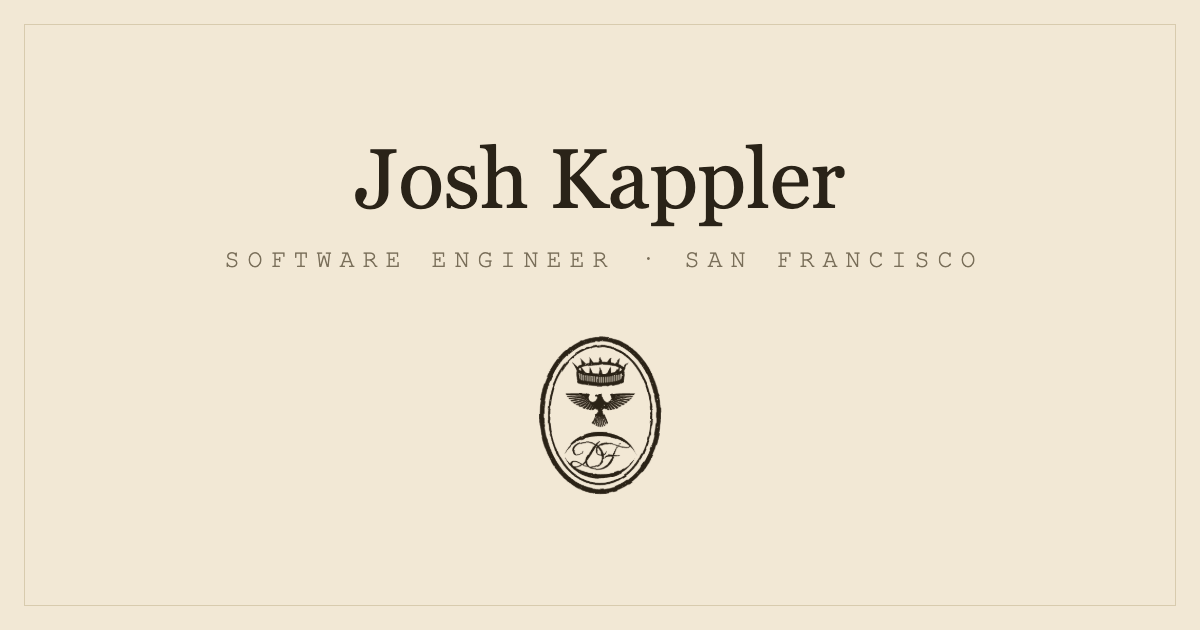
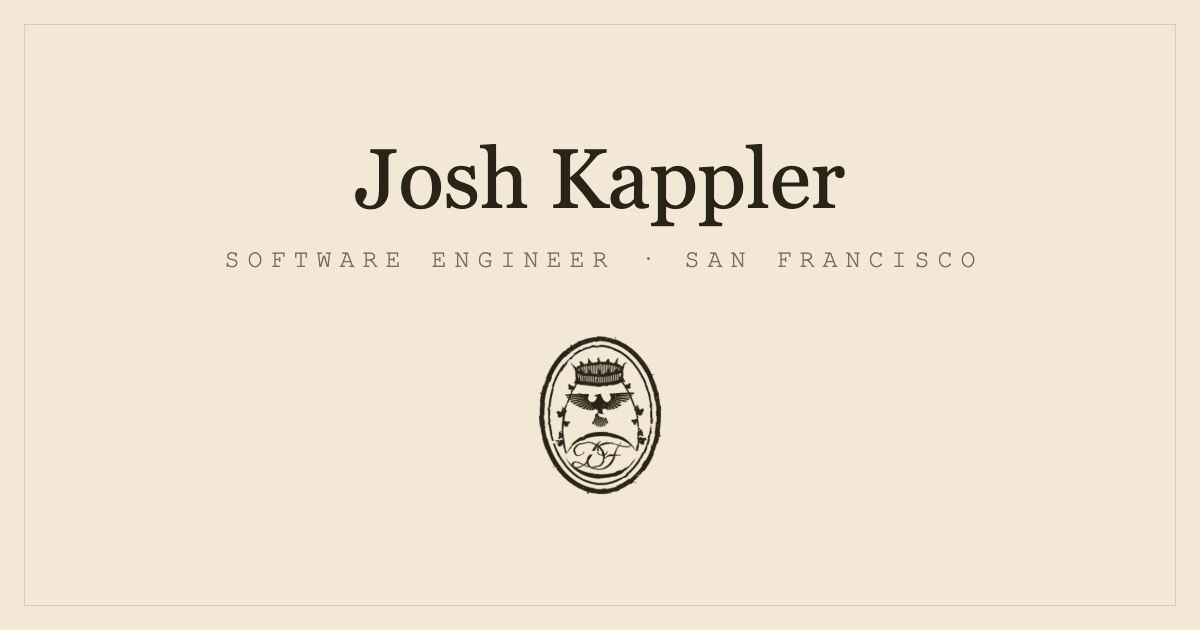
site: grapevines up the flanks, solid coronet, wax-strike wear

Changed region(s): [[0.4317, 0.5429, 0.555, 0.7841]]

diff --git a/src/components/crest-mark.tsx b/src/components/crest-mark.tsx
@@ -1,9 +1,12 @@
 /* The de Falco family seal, stylized from a photo of the wax stamp (over a
    century old): the marquess coronet above a falcon displayed, over the
    cipher's eye holding an interlaced DF, inside the double ring of the oval
-   face. Letters are Great Vibes outlines (OFL); falcon from openclipart
-   319705 (public domain). The eye's inner curve also clips the monogram, so
-   the swash tails end tucked beneath the lids. */
+   face. Grapevines climb each flank and slip behind the coronet. Letters are
+   Great Vibes outlines (OFL); falcon from openclipart 319705 (public domain).
+   The eye's inner curve also clips the monogram, so the swash tails end
+   tucked beneath the lids. The whole face sits a degree and a half off true,
+   with squeeze-out flecks past the rim and patches where the strike missed,
+   the way a hand-pressed stamp lands. */
 export function CrestMark({ className }: { className?: string }) {
   return (
     <svg
@@ -19,7 +22,7 @@ export function CrestMark({ className }: { className?: string }) {
         <clipPath id="crest-eye">
           <path d="M 22 96 C 31 76.5 69 76.5 78 96 C 69 115.5 31 115.5 22 96 Z" />
         </clipPath>
-        <filter id="crest-age" x="-8%" y="-8%" width="116%" height="116%">
+        <filter id="crest-age" x="-10%" y="-10%" width="120%" height="120%">
           <feTurbulence
             type="turbulence"
             baseFrequency="0.08"
@@ -46,18 +49,208 @@ export function CrestMark({ className }: { className?: string }) {
             values="0 0 0 0 0  0 0 0 0 0  0 0 0 0 0  0 0 0 25 -19.2"
             result="holes"
           />
-          <feComposite in="wob" in2="holes" operator="out" />
+          <feTurbulence
+            type="fractalNoise"
+            baseFrequency="0.05 0.11"
+            numOctaves="3"
+            seed="11"
+            result="press"
+          />
+          <feColorMatrix
+            in="press"
+            type="matrix"
+            values="0 0 0 0 0  0 0 0 0 0  0 0 0 0 0  0 0 0 30 -22.6"
+            result="pholes"
+          />
+          <feComposite
+            in="holes"
+            in2="pholes"
+            operator="over"
+            result="allholes"
+          />
+          <feComposite in="wob" in2="allholes" operator="out" />
         </filter>
       </defs>
-      <g filter="url(#crest-age)">
+      <g filter="url(#crest-age)" transform="rotate(-1.6 50 65)">
         <ellipse cx="50" cy="65" rx="45" ry="59" strokeWidth="3.6" />
         <ellipse cx="50" cy="65" rx="39.5" ry="53.5" strokeWidth="1.6" />
+        <g>
+          <path
+            d="M 77.5 93 Q 82 72 74.5 53 Q 70.5 44 65.2 35.8"
+            strokeWidth="1.2"
+            fill="none"
+          />
+          <line x1="78.6" y1="86.7" x2="79.2" y2="86.5" strokeWidth="0.55" />
+          <g transform="translate(79.23,86.49) rotate(68.6)">
+            <path
+              d="M 0 0 C -1.72 -0.11 -3.10 -1.03 -2.88 -2.42 C -2.76 -3.33 -1.95 -3.56 -1.32 -3.33 C -1.72 -4.60 -0.80 -5.86 0.00 -6.32 C 0.80 -5.86 1.72 -4.60 1.32 -3.33 C 1.95 -3.56 2.76 -3.33 2.88 -2.42 C 3.10 -1.03 1.72 -0.11 0 0 Z"
+              fill="currentColor"
+              stroke="none"
+            />
+          </g>
+          <g transform="translate(79.03,82.22) rotate(-27.1)">
+            <path
+              d="M 0 0 C 1.80 -0.75 3.45 -1.20 4.05 -2.85 C 4.50 -4.20 3.30 -5.10 2.25 -4.50 C 1.42 -3.97 1.65 -2.85 2.63 -2.70"
+              strokeWidth="0.55"
+              fill="none"
+            />
+          </g>
+          <line x1="79.2" y1="78.1" x2="79.8" y2="78.9" strokeWidth="0.55" />
+          <g
+            transform="translate(79.85,78.89) rotate(-41.4)"
+            fill="currentColor"
+            stroke="none"
+          >
+            <circle cx="-1.55" cy="0.50" r="0.90" />
+            <circle cx="0.00" cy="0.25" r="0.90" />
+            <circle cx="1.55" cy="0.50" r="0.90" />
+            <circle cx="-0.80" cy="1.90" r="0.90" />
+            <circle cx="0.80" cy="1.90" r="0.90" />
+            <circle cx="0.00" cy="3.40" r="0.90" />
+          </g>
+          <line x1="78.9" y1="71.7" x2="78.3" y2="71.4" strokeWidth="0.55" />
+          <g transform="translate(78.29,71.42) rotate(-66.2)">
+            <path
+              d="M 0 0 C -1.42 -0.10 -2.56 -0.85 -2.38 -1.99 C -2.28 -2.75 -1.61 -2.94 -1.09 -2.75 C -1.42 -3.80 -0.66 -4.84 0.00 -5.22 C 0.66 -4.84 1.42 -3.80 1.09 -2.75 C 1.61 -2.94 2.28 -2.75 2.38 -1.99 C 2.56 -0.85 1.42 -0.10 0 0 Z"
+              fill="currentColor"
+              stroke="none"
+            />
+          </g>
+          <line x1="78.1" y1="65.4" x2="78.6" y2="64.9" strokeWidth="0.55" />
+          <g transform="translate(78.61,64.92) rotate(50.6)">
+            <path
+              d="M 0 0 C -1.72 -0.11 -3.10 -1.03 -2.88 -2.42 C -2.76 -3.33 -1.95 -3.56 -1.32 -3.33 C -1.72 -4.60 -0.80 -5.86 0.00 -6.32 C 0.80 -5.86 1.72 -4.60 1.32 -3.33 C 1.95 -3.56 2.76 -3.33 2.88 -2.42 C 3.10 -1.03 1.72 -0.11 0 0 Z"
+              fill="currentColor"
+              stroke="none"
+            />
+          </g>
+          <line x1="76.6" y1="59.1" x2="77.3" y2="59.8" strokeWidth="0.55" />
+          <g
+            transform="translate(77.34,59.79) rotate(-48.6)"
+            fill="currentColor"
+            stroke="none"
+          >
+            <circle cx="-1.40" cy="0.45" r="0.81" />
+            <circle cx="0.00" cy="0.23" r="0.81" />
+            <circle cx="1.40" cy="0.45" r="0.81" />
+            <circle cx="-0.72" cy="1.71" r="0.81" />
+            <circle cx="0.72" cy="1.71" r="0.81" />
+            <circle cx="0.00" cy="3.06" r="0.81" />
+          </g>
+          <line x1="70.6" y1="45.1" x2="71.0" y2="44.5" strokeWidth="0.55" />
+          <g transform="translate(71.02,44.48) rotate(33.2)">
+            <path
+              d="M 0 0 C -1.27 -0.09 -2.29 -0.77 -2.13 -1.78 C -2.04 -2.46 -1.44 -2.63 -0.98 -2.46 C -1.27 -3.40 -0.59 -4.33 0.00 -4.67 C 0.59 -4.33 1.27 -3.40 0.98 -2.46 C 1.44 -2.63 2.04 -2.46 2.13 -1.78 C 2.29 -0.77 1.27 -0.09 0 0 Z"
+              fill="currentColor"
+              stroke="none"
+            />
+          </g>
+        </g>
+        <g transform="translate(100,0) scale(-1,1)">
+          <path
+            d="M 77.5 93 Q 82 72 74.5 53 Q 70.5 44 65.2 35.8"
+            strokeWidth="1.2"
+            fill="none"
+          />
+          <line x1="78.6" y1="86.7" x2="79.2" y2="86.5" strokeWidth="0.55" />
+          <g transform="translate(79.23,86.49) rotate(68.6)">
+            <path
+              d="M 0 0 C -1.72 -0.11 -3.10 -1.03 -2.88 -2.42 C -2.76 -3.33 -1.95 -3.56 -1.32 -3.33 C -1.72 -4.60 -0.80 -5.86 0.00 -6.32 C 0.80 -5.86 1.72 -4.60 1.32 -3.33 C 1.95 -3.56 2.76 -3.33 2.88 -2.42 C 3.10 -1.03 1.72 -0.11 0 0 Z"
+              fill="currentColor"
+              stroke="none"
+            />
+          </g>
+          <g transform="translate(79.03,82.22) rotate(-27.1)">
+            <path
+              d="M 0 0 C 1.80 -0.75 3.45 -1.20 4.05 -2.85 C 4.50 -4.20 3.30 -5.10 2.25 -4.50 C 1.42 -3.97 1.65 -2.85 2.63 -2.70"
+              strokeWidth="0.55"
+              fill="none"
+            />
+          </g>
+          <line x1="79.2" y1="78.1" x2="79.8" y2="78.9" strokeWidth="0.55" />
+          <g
+            transform="translate(79.85,78.89) rotate(-41.4)"
+            fill="currentColor"
+            stroke="none"
+          >
+            <circle cx="-1.55" cy="0.50" r="0.90" />
+            <circle cx="0.00" cy="0.25" r="0.90" />
+            <circle cx="1.55" cy="0.50" r="0.90" />
+            <circle cx="-0.80" cy="1.90" r="0.90" />
+            <circle cx="0.80" cy="1.90" r="0.90" />
+            <circle cx="0.00" cy="3.40" r="0.90" />
+          </g>
+          <line x1="78.9" y1="71.7" x2="78.3" y2="71.4" strokeWidth="0.55" />
+          <g transform="translate(78.29,71.42) rotate(-66.2)">
+            <path
+              d="M 0 0 C -1.42 -0.10 -2.56 -0.85 -2.38 -1.99 C -2.28 -2.75 -1.61 -2.94 -1.09 -2.75 C -1.42 -3.80 -0.66 -4.84 0.00 -5.22 C 0.66 -4.84 1.42 -3.80 1.09 -2.75 C 1.61 -2.94 2.28 -2.75 2.38 -1.99 C 2.56 -0.85 1.42 -0.10 0 0 Z"
+              fill="currentColor"
+              stroke="none"
+            />
+          </g>
+          <line x1="78.1" y1="65.4" x2="78.6" y2="64.9" strokeWidth="0.55" />
+          <g transform="translate(78.61,64.92) rotate(50.6)">
+            <path
+              d="M 0 0 C -1.72 -0.11 -3.10 -1.03 -2.88 -2.42 C -2.76 -3.33 -1.95 -3.56 -1.32 -3.33 C -1.72 -4.60 -0.80 -5.86 0.00 -6.32 C 0.80 -5.86 1.72 -4.60 1.32 -3.33 C 1.95 -3.56 2.76 -3.33 2.88 -2.42 C 3.10 -1.03 1.72 -0.11 0 0 Z"
+              fill="currentColor"
+              stroke="none"
+            />
+          </g>
+          <line x1="76.6" y1="59.1" x2="77.3" y2="59.8" strokeWidth="0.55" />
+          <g
+            transform="translate(77.34,59.79) rotate(-48.6)"
+            fill="currentColor"
+            stroke="none"
+          >
+            <circle cx="-1.40" cy="0.45" r="0.81" />
+            <circle cx="0.00" cy="0.23" r="0.81" />
+            <circle cx="1.40" cy="0.45" r="0.81" />
+            <circle cx="-0.72" cy="1.71" r="0.81" />
+            <circle cx="0.72" cy="1.71" r="0.81" />
+            <circle cx="0.00" cy="3.06" r="0.81" />
+          </g>
+          <line x1="70.6" y1="45.1" x2="71.0" y2="44.5" strokeWidth="0.55" />
+          <g transform="translate(71.02,44.48) rotate(33.2)">
+            <path
+              d="M 0 0 C -1.27 -0.09 -2.29 -0.77 -2.13 -1.78 C -2.04 -2.46 -1.44 -2.63 -0.98 -2.46 C -1.27 -3.40 -0.59 -4.33 0.00 -4.67 C 0.59 -4.33 1.27 -3.40 0.98 -2.46 C 1.44 -2.63 2.04 -2.46 2.13 -1.78 C 2.29 -0.77 1.27 -0.09 0 0 Z"
+              fill="currentColor"
+              stroke="none"
+            />
+          </g>
+        </g>
         <g fill="currentColor" stroke="none">
           <path d="M 39.5 25.8 L 34.7 20.9 L 35.8 26.7 Z" />
           <path d="M 45.2 25.0 L 41.7 20.1 L 41.4 25.5 Z" />
           <path d="M 51.9 24.9 L 50.0 19.8 L 48.1 24.9 Z" />
           <path d="M 58.6 25.5 L 58.3 20.1 L 54.8 25.0 Z" />
           <path d="M 64.2 26.7 L 65.3 20.9 L 60.5 25.8 Z" />
+        </g>
+        <g strokeWidth="0.7">
+          <line x1="34.4" y1="27.9" x2="34.4" y2="31.1" />
+          <line x1="35.7" y1="27.3" x2="35.7" y2="31.7" />
+          <line x1="37.0" y1="26.9" x2="37.0" y2="32.1" />
+          <line x1="38.3" y1="26.6" x2="38.3" y2="32.4" />
+          <line x1="39.6" y1="26.3" x2="39.6" y2="32.7" />
+          <line x1="40.9" y1="26.1" x2="40.9" y2="32.9" />
+          <line x1="42.2" y1="25.9" x2="42.2" y2="33.1" />
+          <line x1="43.5" y1="25.7" x2="43.5" y2="33.3" />
+          <line x1="44.8" y1="25.6" x2="44.8" y2="33.4" />
+          <line x1="46.1" y1="25.5" x2="46.1" y2="33.5" />
+          <line x1="47.4" y1="25.5" x2="47.4" y2="33.5" />
+          <line x1="48.7" y1="25.4" x2="48.7" y2="33.6" />
+          <line x1="50.0" y1="25.4" x2="50.0" y2="33.6" />
+          <line x1="51.3" y1="25.4" x2="51.3" y2="33.6" />
+          <line x1="52.6" y1="25.5" x2="52.6" y2="33.5" />
+          <line x1="53.9" y1="25.5" x2="53.9" y2="33.5" />
+          <line x1="55.2" y1="25.6" x2="55.2" y2="33.4" />
+          <line x1="56.5" y1="25.7" x2="56.5" y2="33.3" />
+          <line x1="57.8" y1="25.9" x2="57.8" y2="33.1" />
+          <line x1="59.1" y1="26.1" x2="59.1" y2="32.9" />
+          <line x1="60.4" y1="26.3" x2="60.4" y2="32.7" />
+          <line x1="61.7" y1="26.6" x2="61.7" y2="32.4" />
+          <line x1="63.0" y1="26.9" x2="63.0" y2="32.1" />
+          <line x1="64.3" y1="27.3" x2="64.3" y2="31.7" />
+          <line x1="65.6" y1="27.9" x2="65.6" y2="31.1" />
         </g>
         <ellipse cx="50" cy="29.5" rx="17.5" ry="4.6" strokeWidth="2.2" />
         <path
@@ -101,6 +294,22 @@ export function CrestMark({ className }: { className?: string }) {
           <path d="M 60.5 33.2 L 65.3 26.5 L 64.2 32.3 Z" />
           <path d="M 67.5 31.4 L 71.7 23.7 L 67.5 27.6 Z" />
         </g>
+        <g
+          transform="translate(66.2,37.6) rotate(118)"
+          fill="currentColor"
+          stroke="none"
+        >
+          <path d="M 0 0 C -1.13 -0.08 -2.03 -0.68 -1.88 -1.58 C -1.80 -2.17 -1.27 -2.33 -0.86 -2.17 C -1.13 -3.00 -0.52 -3.82 0.00 -4.13 C 0.52 -3.82 1.13 -3.00 0.86 -2.17 C 1.27 -2.33 1.80 -2.17 1.88 -1.58 C 2.03 -0.68 1.13 -0.08 0 0 Z" />
+        </g>
+        <g transform="translate(100,0) scale(-1,1)">
+          <g
+            transform="translate(66.2,37.6) rotate(118)"
+            fill="currentColor"
+            stroke="none"
+          >
+            <path d="M 0 0 C -1.13 -0.08 -2.03 -0.68 -1.88 -1.58 C -1.80 -2.17 -1.27 -2.33 -0.86 -2.17 C -1.13 -3.00 -0.52 -3.82 0.00 -4.13 C 0.52 -3.82 1.13 -3.00 0.86 -2.17 C 1.27 -2.33 1.80 -2.17 1.88 -1.58 C 2.03 -0.68 1.13 -0.08 0 0 Z" />
+          </g>
+        </g>
         <g transform="translate(22.03,33.18) scale(0.07)">
           <g
             transform="matrix(1.3333333,0,0,-1.3333333,0,800)"
@@ -109,6 +318,64 @@ export function CrestMark({ className }: { className?: string }) {
           >
             <path d="m 577.159,421.965 c -1.893,-3.323 -4.044,-6.74 -6.444,-10.225 l -144.944,5.002 139.826,-12.026 c -2.8,-3.658 -5.857,-7.365 -9.162,-11.092 l -139.388,14.539 132.979,-21.475 c -3.771,-3.914 -7.81,-7.83 -12.101,-11.71 L 408.323,399.583 530.464,368.49 c -4.799,-4.021 -9.867,-7.983 -15.199,-11.846 l -115.667,34.36 107.542,-40.035 c -5.789,-3.89 -11.856,-7.645 -18.173,-11.231 l -98.091,42.688 89.77,-47.231 c -6.568,-3.441 -13.386,-6.696 -20.451,-9.705 l -78.043,48.357 70.104,-51.587 c -6.936,-2.707 -14.081,-5.185 -21.438,-7.38 l -57.391,50.387 50.386,-52.37 c -6.757,-1.823 -13.675,-3.412 -20.751,-4.735 l -38.359,48.526 32.627,-49.535 c -6.103,-1.006 -12.317,-1.81 -18.636,-2.405 l -22.714,43.363 18.325,-43.738 c -4.969,-0.385 -9.998,-0.646 -15.092,-0.755 -4.369,5.405 -11.046,8.866 -18.537,8.866 -13.165,0 -23.835,-10.671 -23.835,-23.834 0,-11.728 8.477,-21.457 19.634,-23.443 l -0.08,-0.139 30.368,-73.631 c -2.269,-1.948 -5.831,-4.358 -10.194,-6.936 l -29.84,67.381 25.302,-69.963 c -2.882,-1.583 -5.998,-3.19 -9.247,-4.765 l -24.168,75.235 18.943,-77.684 c -3.395,-1.534 -6.87,-2.997 -10.324,-4.333 l -16.733,82.524 10.844,-84.67 c -3.903,-1.335 -7.697,-2.447 -11.236,-3.243 l -7.722,88.421 1.283,-89.532 c -1.712,-0.189 -3.329,-0.28 -4.804,-0.23 h -0.537 c -1.901,-0.065 -4.033,0.092 -6.321,0.421 l 2.264,89.847 -8.634,-88.59 c -3.506,0.856 -7.235,1.997 -11.051,3.341 l 11.572,85.755 -17.334,-83.603 c -3.388,1.336 -6.784,2.789 -10.094,4.305 l 19.313,79.807 -24.403,-77.395 c -3.194,1.563 -6.248,3.155 -9.071,4.717 l 25.36,73.185 -29.772,-70.65 c -4.147,2.471 -7.537,4.778 -9.725,6.655 l 30.368,73.631 c 0.081,0.064 0.155,0.127 0.235,0.19 10.99,2.123 19.291,11.783 19.291,23.392 0,13.163 -10.671,23.834 -23.836,23.834 -7.467,0 -14.125,-3.437 -18.496,-8.812 -4.415,0.121 -8.782,0.351 -13.102,0.682 l 17.589,41.982 -21.807,-41.627 c -6.275,0.58 -12.447,1.369 -18.509,2.357 l 31.646,48.047 -37.215,-47.082 c -7.06,1.303 -13.965,2.866 -20.709,4.666 l 49.252,51.191 -56.12,-49.274 c -7.377,2.174 -14.542,4.63 -21.495,7.318 l 68.946,50.733 -76.779,-47.574 c -7.114,2.999 -13.978,6.245 -20.591,9.686 l 88.699,46.663 -96.957,-42.194 c -6.384,3.596 -12.511,7.362 -18.358,11.267 L 199.131,390.216 84.383,356.129 c -5.404,3.889 -10.535,7.885 -15.398,11.939 L 190.46,398.992 61.537,374.515 c -4.363,3.925 -8.472,7.883 -12.306,11.845 l 132.56,21.409 -138.972,-14.496 c -3.369,3.784 -6.484,7.548 -9.333,11.263 L 173.119,416.544 28.357,411.55 c -2.452,3.551 -4.644,7.032 -6.573,10.415 l 142.665,3.355 -146.24,3.439 c -2.147,4.454 -3.792,8.688 -4.884,12.615 19.774,0.071 220.106,7.11 201.202,-17.195 -29.287,-37.654 20.158,-75.689 49.066,-46.275 10.202,13.262 16.116,27.896 14.317,30.753 -1.8,2.858 -5.241,2.375 -10.955,2.375 0,2.54 6.876,2.339 6.876,2.339 l -0.104,1.577 c -8.465,0.423 -9.247,-2.464 -9.947,-4.339 -7.09,4.233 -2.539,16.19 2.222,17.248 l 11.85,0.709 c 0.413,1.653 2.835,5.109 5.774,7.71 2.327,2.059 29.222,0.169 29.222,0.169 0,0 1.458,-39.523 22.505,-58.541 28.904,-29.414 78.35,8.621 49.061,46.275 -18.903,24.305 181.43,17.266 201.205,17.195 -1.092,-3.927 -2.737,-8.161 -4.886,-12.615 L 434.496,425.32 Z" />
           </g>
+        </g>
+        <g fill="currentColor" stroke="none">
+          <ellipse
+            cx="95.2"
+            cy="82.0"
+            rx="0.7"
+            ry="0.52"
+            transform="rotate(16 95.2 82.0)"
+          />
+          <ellipse
+            cx="75.2"
+            cy="117.8"
+            rx="0.5"
+            ry="0.38"
+            transform="rotate(78 75.2 117.8)"
+          />
+          <ellipse
+            cx="38.7"
+            cy="124.5"
+            rx="0.85"
+            ry="0.64"
+            transform="rotate(144 38.7 124.5)"
+          />
+          <ellipse
+            cx="12.9"
+            cy="104.4"
+            rx="0.45"
+            ry="0.34"
+            transform="rotate(141 12.9 104.4)"
+          />
+          <ellipse
+            cx="4.8"
+            cy="46.9"
+            rx="0.6"
+            ry="0.45"
+            transform="rotate(217 4.8 46.9)"
+          />
+          <ellipse
+            cx="28.8"
+            cy="10.3"
+            rx="0.75"
+            ry="0.56"
+            transform="rotate(283 28.8 10.3)"
+          />
+          <ellipse
+            cx="63.1"
+            cy="5.2"
+            rx="0.5"
+            ry="0.38"
+            transform="rotate(286 63.1 5.2)"
+          />
+          <ellipse
+            cx="91.3"
+            cy="35.0"
+            rx="0.6"
+            ry="0.45"
+            transform="rotate(351 91.3 35.0)"
+          />
         </g>
         <path
           fillRule="evenodd"
